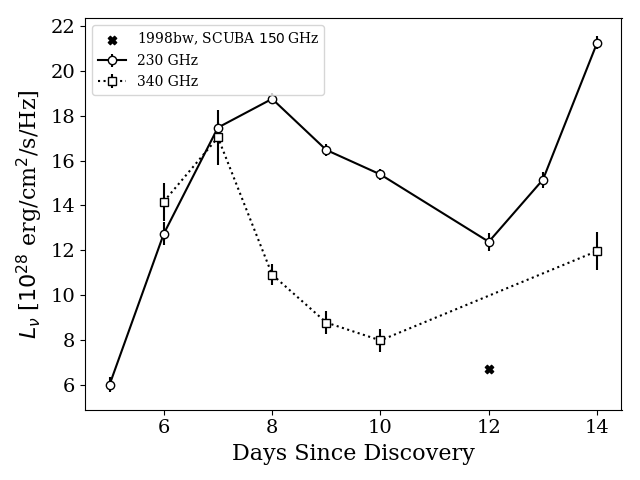
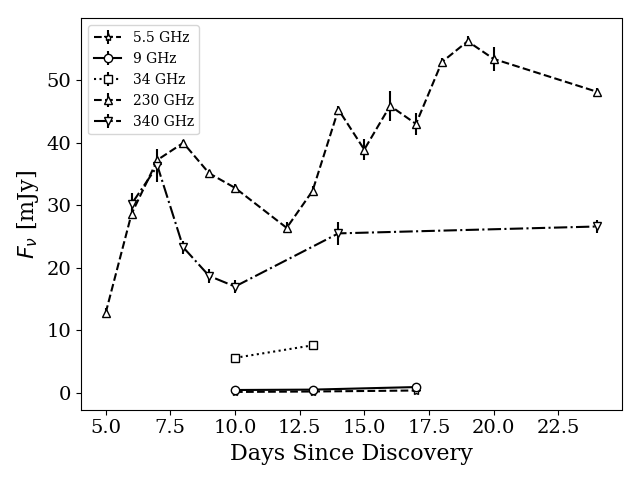
lots of changes

diff --git a/paper_plots/plot_spec.py b/paper_plots/plot_spec.py
@@ -11,15 +11,25 @@ from astropy.table import Table
 from astropy.cosmology import Planck15
 
 def spec_sequence(days, freq, flux, flux_err, lims):
-    colors = ['pink', 'red', 'orange', 'yellow', 'green', 'blue', 'purple', 'black']
+    colors = ['pink', 'red', 'orange', 'yellow', 'green', 'blue', 'purple', 'black', 'pink', 'red', 'orange', 'yellow', 'green', 'blue', 'purple', 'black']
+
     for ii,day in enumerate(days):
         # plot detections
+        print(day)
         choose = np.where(np.logical_and(t==day, lims==False))[0]
         #plt.errorbar(
         #        freq[choose], flux[choose], yerr=flux_err[choose], 
         #        color=colors[ii], fmt='.')
-        plt.plot(
-                freq[choose], flux[choose], color=colors[ii], lw=2.0)
+        if ii < 8:
+            plt.plot(
+                    freq[choose], flux[choose], color=colors[ii], 
+                    lw=2.0, ls='--')
+        else:
+            plt.plot(
+                    freq[choose], flux[choose], color=colors[ii], 
+                    lw=2.0, ls='-')
+        plt.show()
+
 
         # plot non-detections
         #choose = np.where(np.logical_and(t==day, lims==True))[0]
@@ -39,40 +49,42 @@ def spec_sequence(days, freq, flux, flux_err, lims):
 
     plt.xlabel("Freq [GHz]", fontsize=12)
     plt.tight_layout()
-    plt.show()
+    #plt.show()
     #plt.savefig("spec_sequence.png")
 
 
 def light_curve(t, freq, flux, flux_err):
-    conv = 1e-3 * 10**(-23)
-    d = Planck15.luminosity_distance(z=0.014).cgs.value
-    lum = flux * conv * 4 * np.pi * d**2
-    lum_err = flux_err * conv * 4 * np.pi * d**2
-    freq_bins = [230, 340]
-    marker_type = ['o', 's']
-    line_style = ['-', ':']
+    #conv = 1e-3 * 10**(-23)
+    #d = Planck15.luminosity_distance(z=0.014).cgs.value
+    #lum = flux * conv * 4 * np.pi * d**2
+    #lum_err = flux_err * conv * 4 * np.pi * d**2
+    freq_bins = [5.5, 9, 34, 230, 340]
+    window = [1, 2, 2, 20, 20]
+    marker_type = ['*', 'o', 's', '^', 'v']
+    line_style = ['--', '-', ':', '--', '-.']
 
     for ii, center_freq in enumerate(freq_bins):
-        choose = np.where(np.abs(freq-center_freq) <= 20)[0]
+        choose = np.where(np.abs(freq-center_freq) <= window[ii])[0]
 
         # choose one instance of every day
         select,ind = np.unique(t[choose], return_index=True)
 
         plt.errorbar(
-                t[choose][ind], lum[choose][ind] / 1e28, 
-                yerr=lum_err[choose][ind] / 1e28,
+                t[choose][ind], flux[choose][ind], 
+                yerr=flux_err[choose][ind],
                 mfc='white', mec='black', fmt='.', marker=marker_type[ii], 
                 linestyle=line_style[ii], label="%s GHz" %center_freq, c='k')
 
     # put the 1998bw point on there
-    plt.scatter(
-            12, 6.7e28/1e28, marker='X', label="1998bw, SCUBA $150\,$GHz", c='k')
+    #plt.scatter(
+    #        12, 6.7e28/1e28, marker='X', label="1998bw, SCUBA $150\,$GHz", c='k')
 
     # make it pretty
     plt.xlabel("Days Since Discovery", fontsize=16)
-    plt.ylabel("$L_{\\nu}$ [$10^{28}$ erg/cm$^{2}$/s/Hz]", fontsize=16)
+    plt.ylabel("$F_{\\nu}$ [mJy]", fontsize=16)
     plt.xticks(fontsize=14)
     plt.yticks(fontsize=14)
+    #plt.yscale('lin')
     
     plt.legend()
     plt.tight_layout()
@@ -193,6 +205,6 @@ if __name__=="__main__":
     # cols = ['red', 'orange', 'yellow', 'green', 'blue', 'purple', 'black']
     # cols = ['#f2f0f7', '#dadaeb', '#bcbddc', '#9e9ac8', '#807dba', '#6a51a3', '#4a1486']
     #spec_sequence(day_bins, freq, flux, flux_err, lims)
-    #light_curve(t, freq, flux, flux_err)
+    light_curve(t, freq, flux, flux_err)
 
-    spectral_index(t, freq, flux, flux_err, lims)
+    #spectral_index(t, freq, flux, flux_err, lims)

diff --git a/paper_plots/xray_analysis.py b/paper_plots/xray_analysis.py
@@ -1,0 +1,58 @@
+""" Plot the spectrum from radio to X-ray frequencies """
+
+import matplotlib.pyplot as plt
+from matplotlib import rc
+rc("font", family="serif")
+import numpy as np
+
+# There is Swift/XRT data on June 19, June 21, June 29, and June 30
+dates = ['June 21', 'June 29', 'June 30']
+days = [5, 13, 14]
+Fx_all = [1.2e-11, 1.8e-11, 6.05e-12]
+fr_all = [13.26, 32, 43.5]
+nu_x = 0.25e18
+nu_r = 230e9
+markers = ['o', 's', '^']
+styles = ['--', '-.', ':']
+try_index = 1.5
+
+for ii,date in enumerate(dates):
+    # Let's start with June 21:
+    Fx = Fx_all[ii] # erg/cm2/s
+    # 1 keV ~ 0.25e18 Hz
+    fx = Fx/nu_x # erg/cm2/s/Hz
+    fx_mJy = fx * 10**(23) * 10**3 # mJy 
+
+    # On this day, our SMA flux at 230 GHz was 13.26 mJy
+    fr_mJy = fr_all[ii]
+
+    # Solve for the spectral index
+    alpha = np.round(np.log10(fx_mJy/fr_mJy)/np.log10(nu_r/nu_x), 2)
+
+    plt.scatter(nu_x, fx_mJy, c='k', marker=markers[ii])
+    plt.scatter(nu_r, fr_mJy, c='k', marker=markers[ii])
+    plt.plot(
+            [nu_x, nu_r], [fx_mJy, fr_mJy], 
+            ls=styles[ii], c='k', 
+            label="Day %s: $F_\\nu \propto \\nu^{-%s}$" %(days[ii], alpha))
+    if ii >= 1:
+        plt.plot(
+                [nu_r, nu_x],
+                [fr_mJy, fr_mJy * (nu_r/nu_x)**try_index],
+                c='k', ls='-', lw=0.5)
+        plt.text(0.5e12, 0.1, "$F_\\nu \propto \\nu^{-1.5}$", fontsize=12)
+
+plt.xscale('log')
+plt.yscale('log')
+plt.xlabel("Frequency [Hz]", fontsize=16)
+plt.ylabel("Flux [mJy]", fontsize=16)
+plt.xticks(fontsize=14)
+plt.yticks(fontsize=14)
+plt.legend()
+
+plt.xlim(5e10, 1e18)
+plt.ylim(0.0005, 100)
+plt.tight_layout()
+
+plt.savefig("xray_spec_index.png")
+#plt.show()

diff --git a/paper_plots/spec_day_10_analysis.py b/paper_plots/spec_day_10_analysis.py
@@ -43,6 +43,16 @@ p=2.5
 y2 = flux[2] * (x/freq[2])**(-p/2)
 plt.fill_between(x, y1, y2, color='grey')
 
+# Plot the relativistic Maxwellian
+
+#a = 9e3
+#b = 0.2
+a = 5e2
+b = 0.05 
+#x = np.linspace(1e5, 1e9)
+x = np.logspace(-1, 3)
+I = a * (2.5651*(1 + 1.92/((b*x)**(1/3)) + 0.9977/((b*x)**(2/3))) * np.exp(-1.8899*((b*x)**(1/3))))
+plt.plot(x,I,color='red')
 
 plt.text(9, 170, "Spectrum at $\Delta t = 10\,$days", fontsize=14)
 
@@ -52,7 +62,9 @@ plt.xticks(fontsize=14)
 plt.yticks(fontsize=14)
 plt.xscale('log')
 plt.yscale('log')
+plt.xlim(1e1, 1e3)
+plt.ylim(1e-1, 1e2)
 plt.tight_layout()
-#plt.show()
+plt.show()
 
-plt.savefig("spec_day_10.png")
+#plt.savefig("spec_day_10.png")

diff --git a/paper_plots/nakar_comparison.py b/paper_plots/nakar_comparison.py
@@ -18,13 +18,18 @@ plt.scatter(
 
 # SN 2003L
 plt.scatter(
-        0.2*3*10**5, 1e48, 
-        marker='s', c='k', label='SN2003L, SN2007bg')
+        (1/6)*3*10**5, 1.5e47, 
+        marker='s', c='k', label='SN2003L')
 
+# SN 2003bg
 plt.scatter(
-        0.24*3*10**5, 1e49, 
-        marker='v', c='k', label='SN2003bg')
+        0.13*3*10**5, 1.7e48, 
+        marker='^', c='k', label='SN2003bg')
 
+# SN 2007bg
+plt.scatter(
+        0.2*3*10**5, 1e48, 
+        marker='v', c='k', label='SN2007bg')
 
 for ii,lab in enumerate(labels):
     plt.scatter(v[ii], E[ii], c=colors[ii], label=lab)

diff --git a/paper_plots/light_curve_grid.py b/paper_plots/light_curve_grid.py
@@ -1,0 +1,10 @@
+""" Make a grid of light curves from the SMA, ATCA, and Swift/XRT """
+
+import matplotlib.pyplot as plt
+from matplotlib import rc
+rc("font", family="serif")
+import numpy as np
+
+days = [5, 6, 7, 8, 9, 10, 11, 12, 13, 14, 15, 16, 17, 18, 19, 20]
+
+# flux at 231.5 GHz
